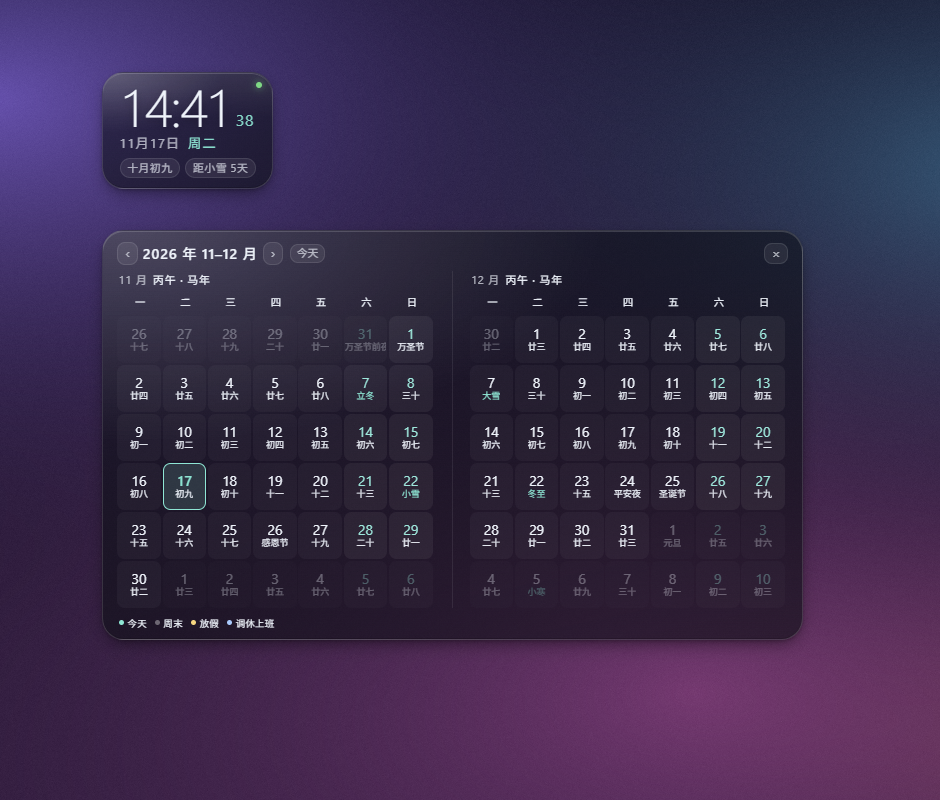
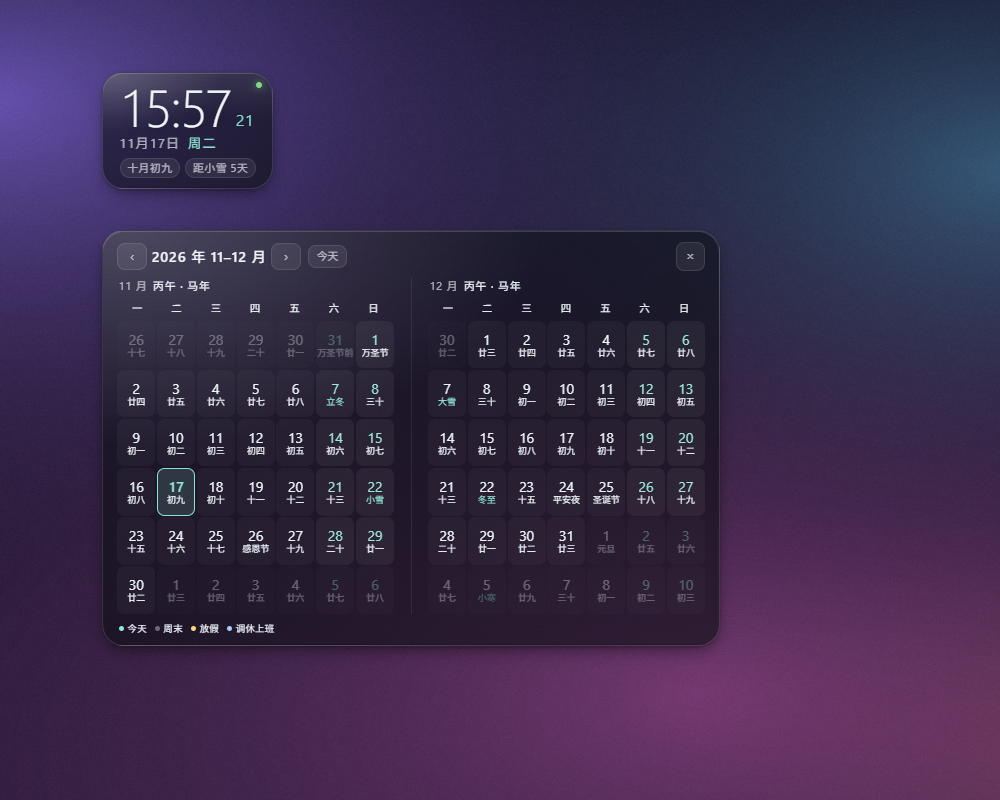
fix: 日历常驻窗口消除闪烁，月份导航按钮加大
- 日历窗口改为常驻（隐藏时全透明 + 点击穿透），显示/隐藏只切换 CSS 透明度，不再 show/hide
- 淡入淡出保留；隐藏后不再把透明度复位成 1，避免下一帧全不透明
- 渲染后同步测量尺寸，避免显示后才 resize 造成跳动
- 日历工具栏按钮加大点击区域；修复标题挤压按钮的布局问题
- 重新生成日历预览图

diff --git a/src/main/calendar-window.js b/src/main/calendar-window.js
@@ -62,6 +62,10 @@ class CalendarWindow {
     this.win.setMenuBarVisibility(false);
     if (cfg.window.layer === 'alwaysOnTop') this.win.setAlwaysOnTop(true, 'floating');
     this.win.loadURL('app://clock/renderer/calendar.html');
+    // 常驻窗口：启动后就显示为全透明且点击穿透，之后只切换 CSS 透明度，
+    // 避免反复 show/hide 触发合成器重绘造成闪烁。
+    this.win.setIgnoreMouseEvents(true, { forward: false });
+    this.win.showInactive();
     this.win.webContents.on('console-message', (event) => this.log?.(`[calendar] ${event.message}`));
     this.win.on('closed', () => {
       this.win = null;
@@ -111,20 +115,20 @@ class CalendarWindow {
     this.applyLook();
     this.position();
 
+    clearTimeout(this.hideTimer);
     clearTimeout(this.hideFinishTimer);
+    this.hideTimer = null;
     this.hideFinishTimer = null;
 
+    // 窗口常驻（全透明 + 点击穿透），显示时只需要开始接收鼠标并淡入，
+    // 不再 show/hide，避免合成器重新分配导致的那一下闪烁。
+    win.setIgnoreMouseEvents(false);
+    this.sendOpacity(1, this.visible ? 90 : 150);
     if (!this.visible) {
-      this.sendOpacity(0, 0);
-      win.showInactive();
       this.visible = true;
-      setTimeout(() => this.sendOpacity(1, 150), 20);
-    } else {
-      this.sendOpacity(1, 120);
+      this.log?.(`calendar shown anchor=${this.anchorId} size=${this.size.width}x${this.size.height} bounds=${JSON.stringify(win.getBounds())}`);
     }
-
     win.webContents.send('calendar:opened', { at: Date.now() });
-    this.log?.(`calendar shown anchor=${this.anchorId} size=${this.size.width}x${this.size.height}`);
   }
 
   hide() {
@@ -133,14 +137,14 @@ class CalendarWindow {
     if (!this.win || this.win.isDestroyed() || !this.visible) return;
     this.log?.('calendar hidden');
     this.sendOpacity(0, 140);
+    this.visible = false;
     clearTimeout(this.hideFinishTimer);
     this.hideFinishTimer = setTimeout(() => {
       this.hideFinishTimer = null;
-      if (this.win && !this.win.isDestroyed()) {
-        this.win.hide();
-        this.sendOpacity(1, 0);
+      // 淡出完成后恢复点击穿透；窗口本身保留，下次显示直接淡入
+      if (this.win && !this.win.isDestroyed() && !this.visible) {
+        this.win.setIgnoreMouseEvents(true, { forward: false });
       }
-      this.visible = false;
     }, 170);
     if (this.hideFinishTimer.unref) this.hideFinishTimer.unref();
   }
@@ -169,7 +173,11 @@ class CalendarWindow {
     const height = Math.max(180, Math.min(1000, Math.round(size.height)));
     if (width === this.size.width && height === this.size.height) return;
     this.size = { width, height };
-    if (this.isVisible()) this.position();
+    // 显示时如果只差几个像素就不要挪窗口，避免出现可见的跳动
+    if (!this.isVisible()) return;
+    const b = this.win.getBounds();
+    if (Math.abs(b.width - width) <= 3 && Math.abs(b.height - height) <= 3) return;
+    this.position();
   }
 
   anchorBounds() {
@@ -216,4 +224,7 @@ class CalendarWindow {
 }
 
 module.exports = { CalendarWindow };
+
+
+
 

diff --git a/src/renderer/calendar.css b/src/renderer/calendar.css
@@ -11,7 +11,12 @@
 .cal-toolbar {
   display: flex;
   align-items: center;
-  gap: 0.32em;
+  gap: 0.3em;
+  flex-wrap: nowrap;
+}
+
+.cal-toolbar > * {
+  flex: 0 0 auto;
 }
 
 .cal-title {
@@ -39,17 +44,23 @@
 
 .cal-nav {
   font-size: 0.95em;
-  padding: 0.25em 0.5em;
+  min-width: 2.1em;
+  min-height: 1.9em;
+  padding: 0.25em 0.45em;
 }
 
 .cal-today {
   font-size: 0.72em;
-  margin-left: 0.2em;
+  margin-left: 0.25em;
+  min-height: 2.1em;
+  padding: 0.3em 0.7em;
 }
 
 .cal-close {
   margin-left: auto;
   font-size: 0.92em;
+  min-width: 2.1em;
+  min-height: 2.1em;
   padding: 0.22em 0.45em;
 }
 
@@ -70,6 +81,7 @@
   display: flex;
   gap: 1.1em;
   align-items: flex-start;
+  width: 100%;
 }
 
 .cal-months > .cal-month + .cal-month {
@@ -81,6 +93,8 @@
   display: flex;
   flex-direction: column;
   gap: 0.3em;
+  flex: 1 1 0;
+  min-width: 0;
 }
 
 .cal-month-head {
@@ -100,7 +114,7 @@
 
 .cal-week {
   display: grid;
-  grid-template-columns: repeat(7, var(--cell-w, 2.9em));
+  grid-template-columns: repeat(7, minmax(0, 1fr));
   gap: 0.12em;
   padding: 0 0.1em;
 }
@@ -119,7 +133,7 @@
 
 .cal-grid {
   display: grid;
-  grid-template-columns: repeat(7, var(--cell-w, 2.9em));
+  grid-template-columns: repeat(7, minmax(0, 1fr));
   gap: 0.12em;
 }
 
@@ -262,3 +276,5 @@ body.is-light .cal-cell {
 body.is-light .cal-legend .dot.weekend {
   background: rgba(16, 23, 32, 0.3);
 }
+
+

diff --git a/src/renderer/calendar.js b/src/renderer/calendar.js
@@ -214,11 +214,11 @@ async function render() {
     const height = Math.ceil(rect.height + parseFloat(style.paddingTop) + parseFloat(style.paddingBottom)) + 4;
     api.resize({ width, height });
   };
-  requestAnimationFrame(() => {
-    measure();
-    // 字体/网格排版稳定后再量一次，避免窗口比内容窄一点导致右侧被裁
-    setTimeout(measure, 120);
-  });
+  // 同步量一次：窗口隐藏时 rAF 不会触发，若等到显示后才量，
+  // 窗口会先以旧尺寸出现、再跳成新尺寸，看起来就是“闪一下”。
+  measure();
+  requestAnimationFrame(measure);
+  setTimeout(measure, 120);
 }
 
 document.getElementById('cal-prev').addEventListener('click', () => {
@@ -264,5 +264,11 @@ api.onClock((state) => {
 });
 
 render();
+
+
+
+
+
+
 
 

diff --git a/src/main/main.js b/src/main/main.js
@@ -795,3 +795,5 @@ app.on('window-all-closed', () => {
 
 
 
+
+

diff --git a/CHANGELOG.md b/CHANGELOG.md
@@ -14,6 +14,9 @@
 ### 修复
 
 - 快捷键冲突提示不再每次都弹：只有快捷键配置变化时才重新注册，冲突改为「窗口层级」页内联提示。
+- 日历改为常驻透明窗口，只切换 CSS 透明度，消除每次弹出时的一次闪烁。
+- 日历工具栏按钮加大点击区域，并修复切换月份时标题挤压按钮的布局问题。
+
 ## [1.1.0] - 2026-11-13
 
 ### 新增
@@ -77,6 +80,7 @@
 - 多窗口多屏：每个窗口独立指定屏幕与版式，一键“每块屏幕各放一个”；窗口位置按实例记忆。
 - 托盘菜单、全局快捷键（显示/隐藏、立即同步）、右键快捷菜单、双击打开设置、Ctrl+滚轮缩放、开机自启。
 - 便携打包（`npm run dist`）与 15 个单元测试。
+
 
 
 
